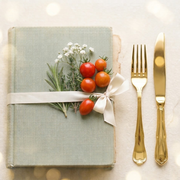
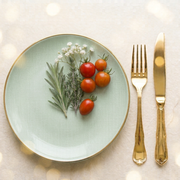
Add files via upload

diff --git a/index.html b/index.html
@@ -7,7 +7,7 @@
 <meta name="mobile-web-app-capable" content="yes">
 <meta name="apple-mobile-web-app-title" content="Satt & Leicht">
 <title>Satt und Leicht</title>
-<link rel="apple-touch-icon" sizes="180x180" href="apple-touch-icon.png?v=2">
+<link rel="apple-touch-icon" sizes="180x180" href="apple-touch-icon.png?v=3">
 <link rel="manifest" href="manifest.json">
 <link rel="preconnect" href="https://fonts.googleapis.com">
 <link rel="stylesheet" href="https://fonts.googleapis.com/css2?family=Bricolage+Grotesque:opsz,wght@12..96,500;12..96,700;12..96,800&family=Atkinson+Hyperlegible:wght@400;700&display=swap">
